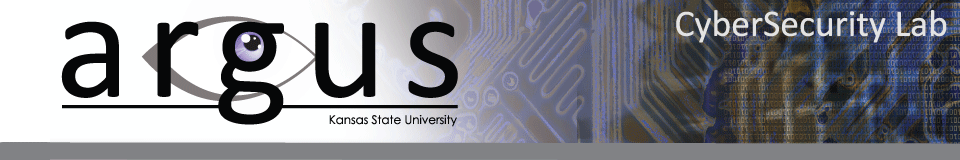
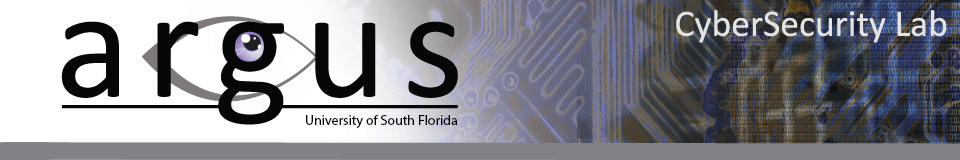
Updated affiliations

Changed region(s): [[0.3125, 0.7188, 0.5, 0.7812]]

diff --git a/people.html b/people.html
@@ -46,25 +46,12 @@
           <h3>Faculty</h3>
           <img class="profile-pic" src="img/simon.jpg" alt="Xinming \"Simon\" Ou">
           <b>Xinming "Simon" Ou</b><br>
-          <a href="http://cis.ksu.edu/%7exou">http://cis.ksu.edu/~xou</a>
+          <a href="http://www.cse.usf.edu/~xou/">http://www.cse.usf.edu/~xou/</a>
           <br>
-          xou <i>at</i> ksu <i>dot</i> edu
+          xou <i>at</i> usf <i>dot</i> edu
         </div>
       </div><!-- /row, Simon -->
     
-      <!-- Dr. Roy -->
-      <hr>
-      <div class="row">
-        <div class="col-md-9">
-          <h3>Research Associate</h3>
-          <img class="profile-pic" src="img/sankar.jpg" alt="Sankardas Roy">
-          <b>Sankardas Roy, PhD</b><br>
-          <a href="http://cis.ksu.edu/%7esroy">http://cis.ksu.edu/~sroy</a>
-          <br>
-          sroy <i>at</i> ksu <i>dot</i> edu
-        </div>
-      </div><!-- /row, Dr. Roy -->
-      
       <hr>
       <!-- Student Row 1 -->
       <div class="row">
@@ -86,9 +73,9 @@
               <img class="profile-pic" src="img/sathya.jpg" alt="Sathya Chandran Sundaramurthy">
               <b>Sathya Chandran Sundaramurthy 
               <br> PhD Candidate</b>
-              <br> <a href="http://cis.ksu.edu/%7Esathya">http://cis.ksu.edu/~sathya</a>
+              <br> <a href="http://www.cse.usf.edu/~sathyachandr/">http://www.cse.usf.edu/~sathyachandr/</a>
               <br>
-              sathya <i>at</i> ksu <i>dot</i> edu
+               sathyachandr <i>at</i>  mail <i> dot </li> usf <i>dot</i> edu
             </div>
 
           </div>
@@ -105,18 +92,18 @@
               <img class="profile-pic" src="img/yuping.jpg" alt="Yuping Li">
               <b>Yuping Li 
               <br> PhD Candidate </b>
-              <br> <a href="http://cis.ksu.edu/%7eypli/">http://cis.ksu.edu/~ypli</a>
+              <br> <a href="http://www.cse.usf.edu/~yupingli/">http://www.cse.usf.edu/~yupingli/</a>
               <br>
-              ypli <i>at</i> ksu <i>dot</i> edu
+              yupingli <i>at</i> mail <i>dot</i> usf  <i>dot</i> edu
             </div>
 
             <div class="col-md-6">
               <img class="profile-pic" src="img/daniel.jpg" alt="Xiaolong Wang">
               <b>Daniel (Xiaolong) Wang 
               <br> PhD Candidate</b>
-              <br> <a href="http://cis.ksu.edu/%7edanielwang/">http://cis.ksu.edu/~danielwang</a>
+              <br> <a href="http://www.cse.usf.edu/~xiaolongw/">http://www.cse.usf.edu/~xiaolongw/</a>
               <br>
-              danielwang <i>at</i> ksu <i>dot</i> edu
+               xiaolongw  <i>at</i> mail <i>dot</i> usf <i>dot</i> edu
             </div>
 
           </div>          
@@ -135,30 +122,25 @@
               <br> PhD Candidate</b>
               <br> <a href="http://cis.ksu.edu/%7efgwei/">http://cis.ksu.edu/~fgwei/</a>
               <br>
-              fgwei <i>at</i> ksu <i>dot</i> edu
+              fwei <i>at</i> mail <i>dot</i> usf <i>dot</i> edu
             </div>
 
-            <div class="col-md-6">
-              <img class="profile-pic" src="img/trent.jpg" alt="Wenbo Wang">
-              <b>Trent Novelly <br> Undergraduate Student <br> SFS Scholar</b>
-              <br>
-              trentn <i>at</i> ksu <i>dot</i> edu
-            </div>
-          </div>
-        </div>
-      </div><!-- /row, Ian & Trent -->
-      <hr>
-
-      <!-- Jacob, Jordan -->
-      <div class="row">
-        <div class="col-md-12">
-          <div class="row">
             <div class="col-md-6">
               <img class="profile-pic" src="img/jacob.jpg" alt="Jacob Case">
               <b>Jacob Case <br> Undergraduate Student</b>
               <br>
               jacobcase94 <i>at</i> ksu <i>dot</i> edu
             </div>
+
+          </div>
+        </div>
+      </div><!-- /row, Ian & Trent -->
+      <hr>
+
+      <!-- Jacob, Jordan -->
+      <!--div class="row">
+        <div class="col-md-12">
+          <div class="row">
             <div class="col-md-6">
               <img class="profile-pic" src="img/jordan.jpg" alt="Jordan DeLoach">
               <b>Jordan DeLoach 
@@ -169,7 +151,7 @@
             </div>
           </div>
         </div>
-      </div><!-- /row, Jacob, Jordan -->
+      </div--><!-- /row, Jacob, Jordan -->
       <hr>
 
       <hr>
@@ -198,6 +180,9 @@
             <li><a href="http://cis.ksu.edu/~zhangs84">Su Zhang</a> (PhD, 2014. Senior Software Engineer, Symantec)</li>
             <li><a href="http://ianunruh.com">Ian Unruh</a> (Undergraduate Student) </li>
             <li>Gilnei De Pellegrin (Undergraduate Student) </li>
+            <li>Trent Novelly (Undergraduate Student) </li>
+            <li>Jordan DeLoach (Undergraduate Student) </li>
+            <li>Sankardas Roy (Research Associate, now Assistant Professor at Bowling Green State University) </li>
           </ul>
         </div>
       </div><!-- /row, Alumni-->
@@ -207,7 +192,7 @@
 
 
   <footer>
-    &copy; Argus Cyber Security Lab 2014 &bull; 127 Nichols Hall &bull; Manhattan, KS 66506 &bull; 785-532-7774
+    &copy; Argus Cyber Security Lab 2015
   </footer>
 
   </div> <!-- /container -->

diff --git a/index.php b/index.php
@@ -64,7 +64,7 @@
         <div class="col-md-8">
           <h6 class="section-header">About Us</h6>
           <p class="justify">
-            The Argus group was founded by <a href="http://people.cis.ksu.edu/%7Exou/">
+            The Argus group was founded by <a href="http://www.cse.usf.edu/~xou/">
             Dr. Xinming (Simon) Ou</a> in 2006 to carry out cyber security research. Our
             focus is on the defense aspect of the cyber space, and our philosophy is to
             start from real problems, and create solutions that last. Our research
@@ -91,8 +91,8 @@
           </p>
           <p class="justify">
             Argus research has been supported by the National Science Foundation, 
-            Department of Defense, Department of Energy, National Institute of
-            Standards and Technology, and HP Labs.
+            Department of Defense, Department of Homeland Security, Department of Energy, 
+            National Institute of Standards and Technology, and HP Labs.
             The group is named after the giant <a href="https://en.wikipedia.org/wiki/Argus_Panoptes">Argus</a>
             in Greek mythology, who has a hundred eyes that constantly watch for enemies.
           </p>
@@ -104,9 +104,16 @@
           <h6 class="section-header">News</h6>
           <div>
           <ul>
-            <li>The <a href="http://amandroid.sireum.org/">Amandroid</a> work will be presented at ACM CCS'14. 
+            <li>Daniel and Alex will be presenting their research in the MTD workshop and CPS-SPC workshop
+                co-located with ACM CCS. 
             </li>
-            <li>The <a href="http://cansec.ittc.ku.edu/">Sixth Central Area Networking and Security Workshop</a> (CANSec) 
+            <li>Yuping presented his results on using fuzzy hashing in malware analysis in the CSET workshop
+                co-located with USENIX Security'15.
+            </li>
+            <li>Sathya's paper won the Distinguished Paper Award at SOUPS'15.</li>
+            <li>The <a href="http://amandroid.sireum.org/">Amandroid</a> work was presented at ACM CCS'14. 
+            </li>
+            <!--li>The <a href="http://cansec.ittc.ku.edu/">Sixth Central Area Networking and Security Workshop</a> (CANSec) 
                  was held at KU on Oct 25-26.
             </li>
             <li>Our <a href="anthrosec.html">anthropology project</a> was 
@@ -123,7 +130,7 @@
             <li>
                  <a href="http://cacm.acm.org/news/149748-adaptive-networks-aim-to-thwart-cybercriminals/fulltext"> 
                  CACM's coverage</a> on our moving-target defense research.
-            </li>
+            </li-->
           </ul>
           </div>
         </div>
@@ -132,7 +139,7 @@
   </div>
 
   <footer>
-    &copy; Argus Cyber Security Lab 2014 &bull; 127 Nichols Hall &bull; Manhattan, KS 66506 &bull; 785-532-7774
+    &copy; Argus Cyber Security Lab 2015
   </footer>
 
   </div> <!-- /container -->
